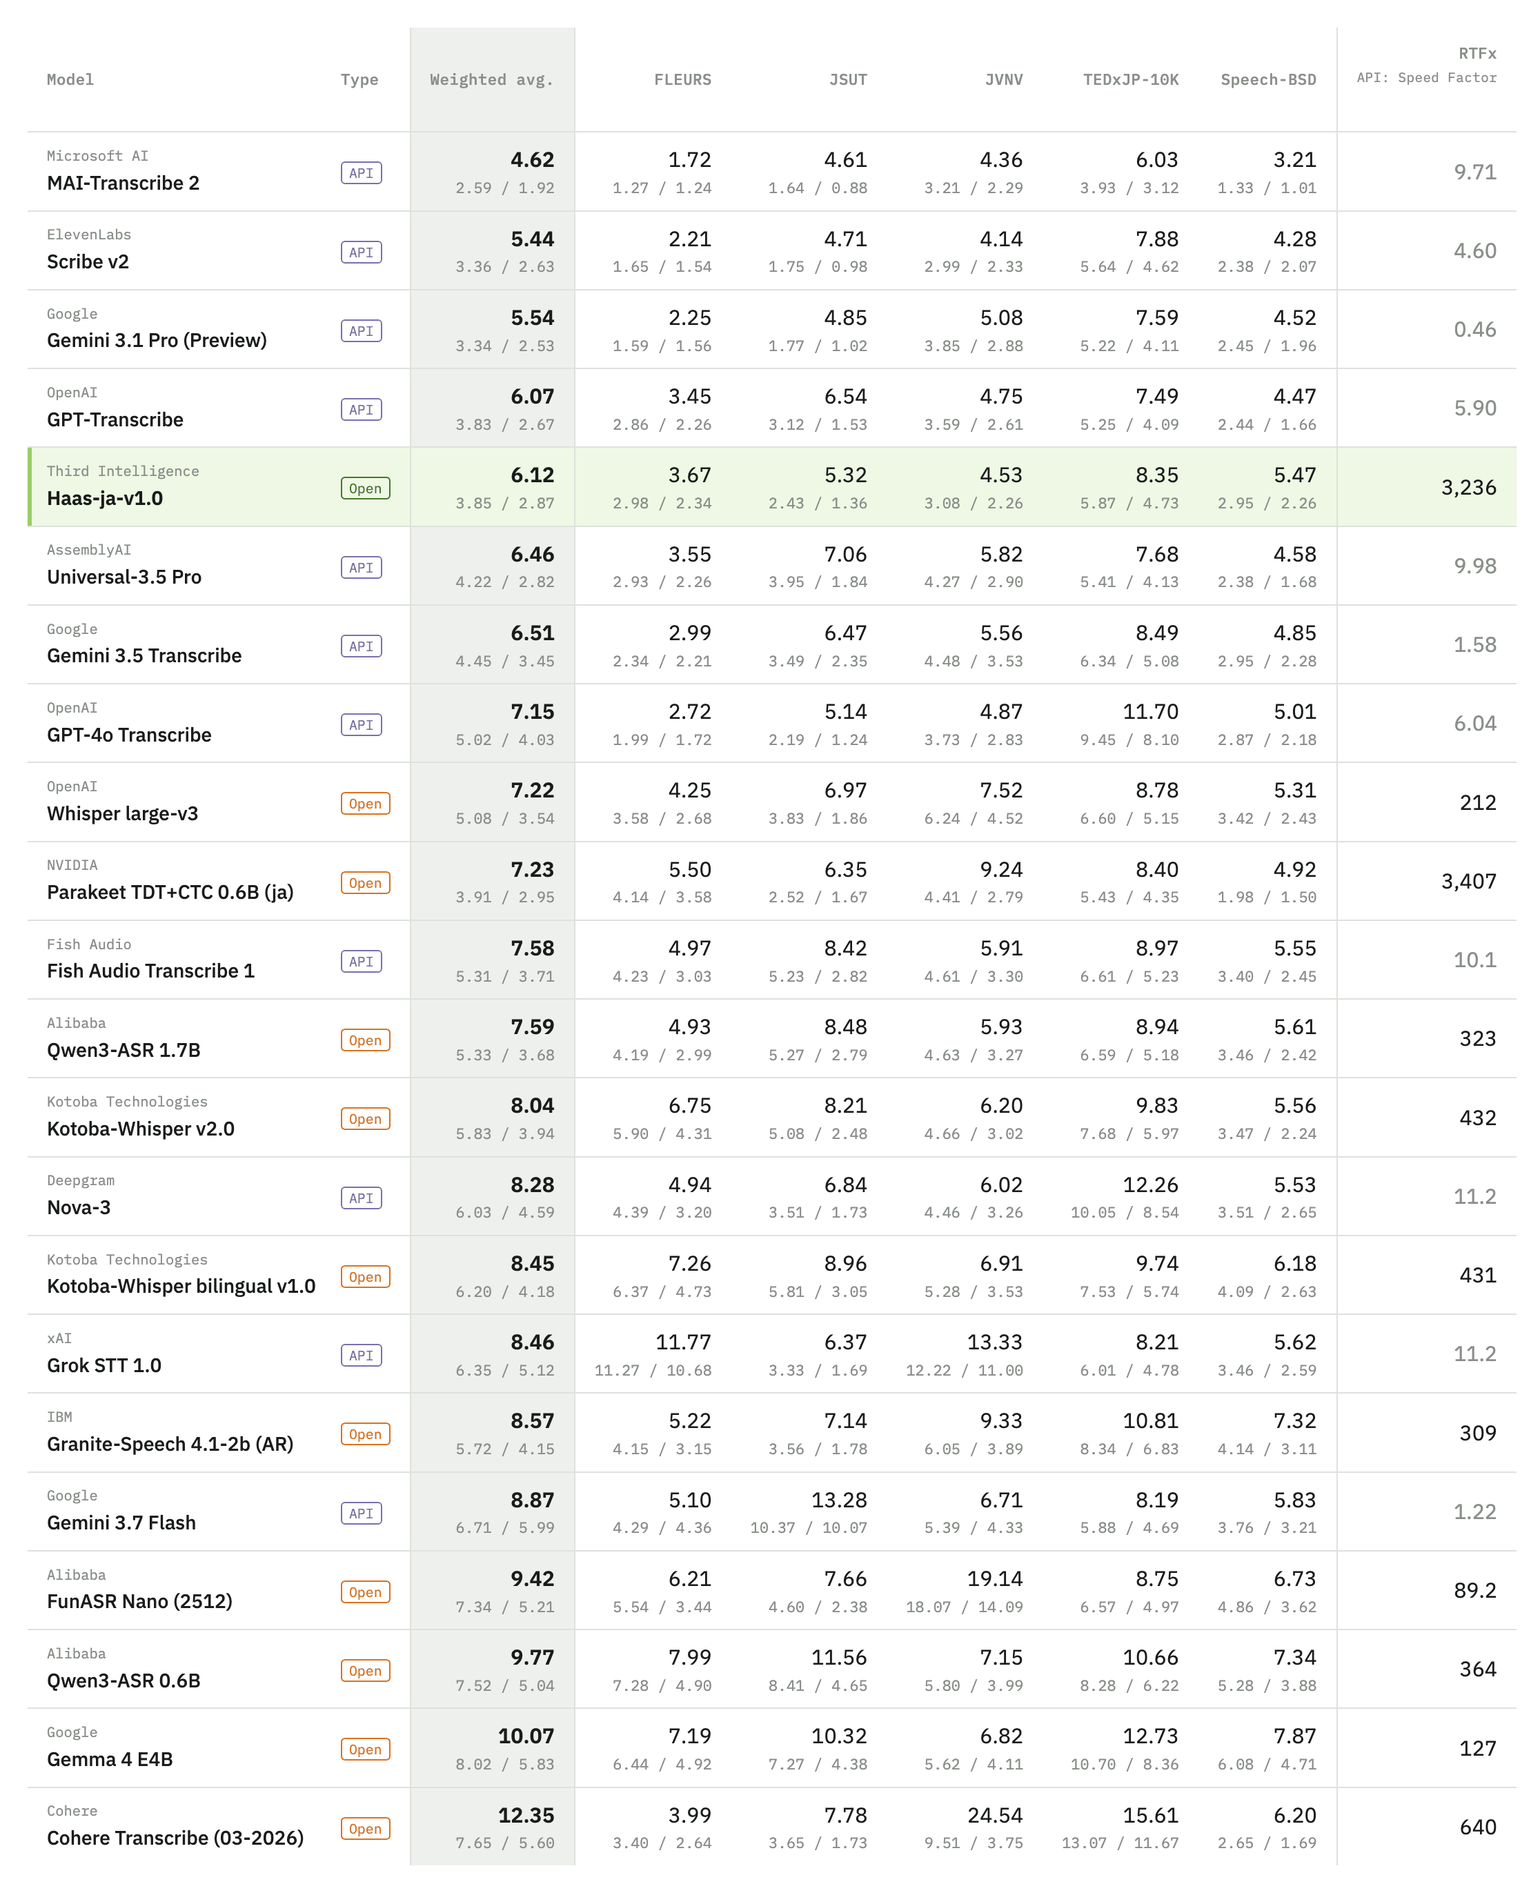
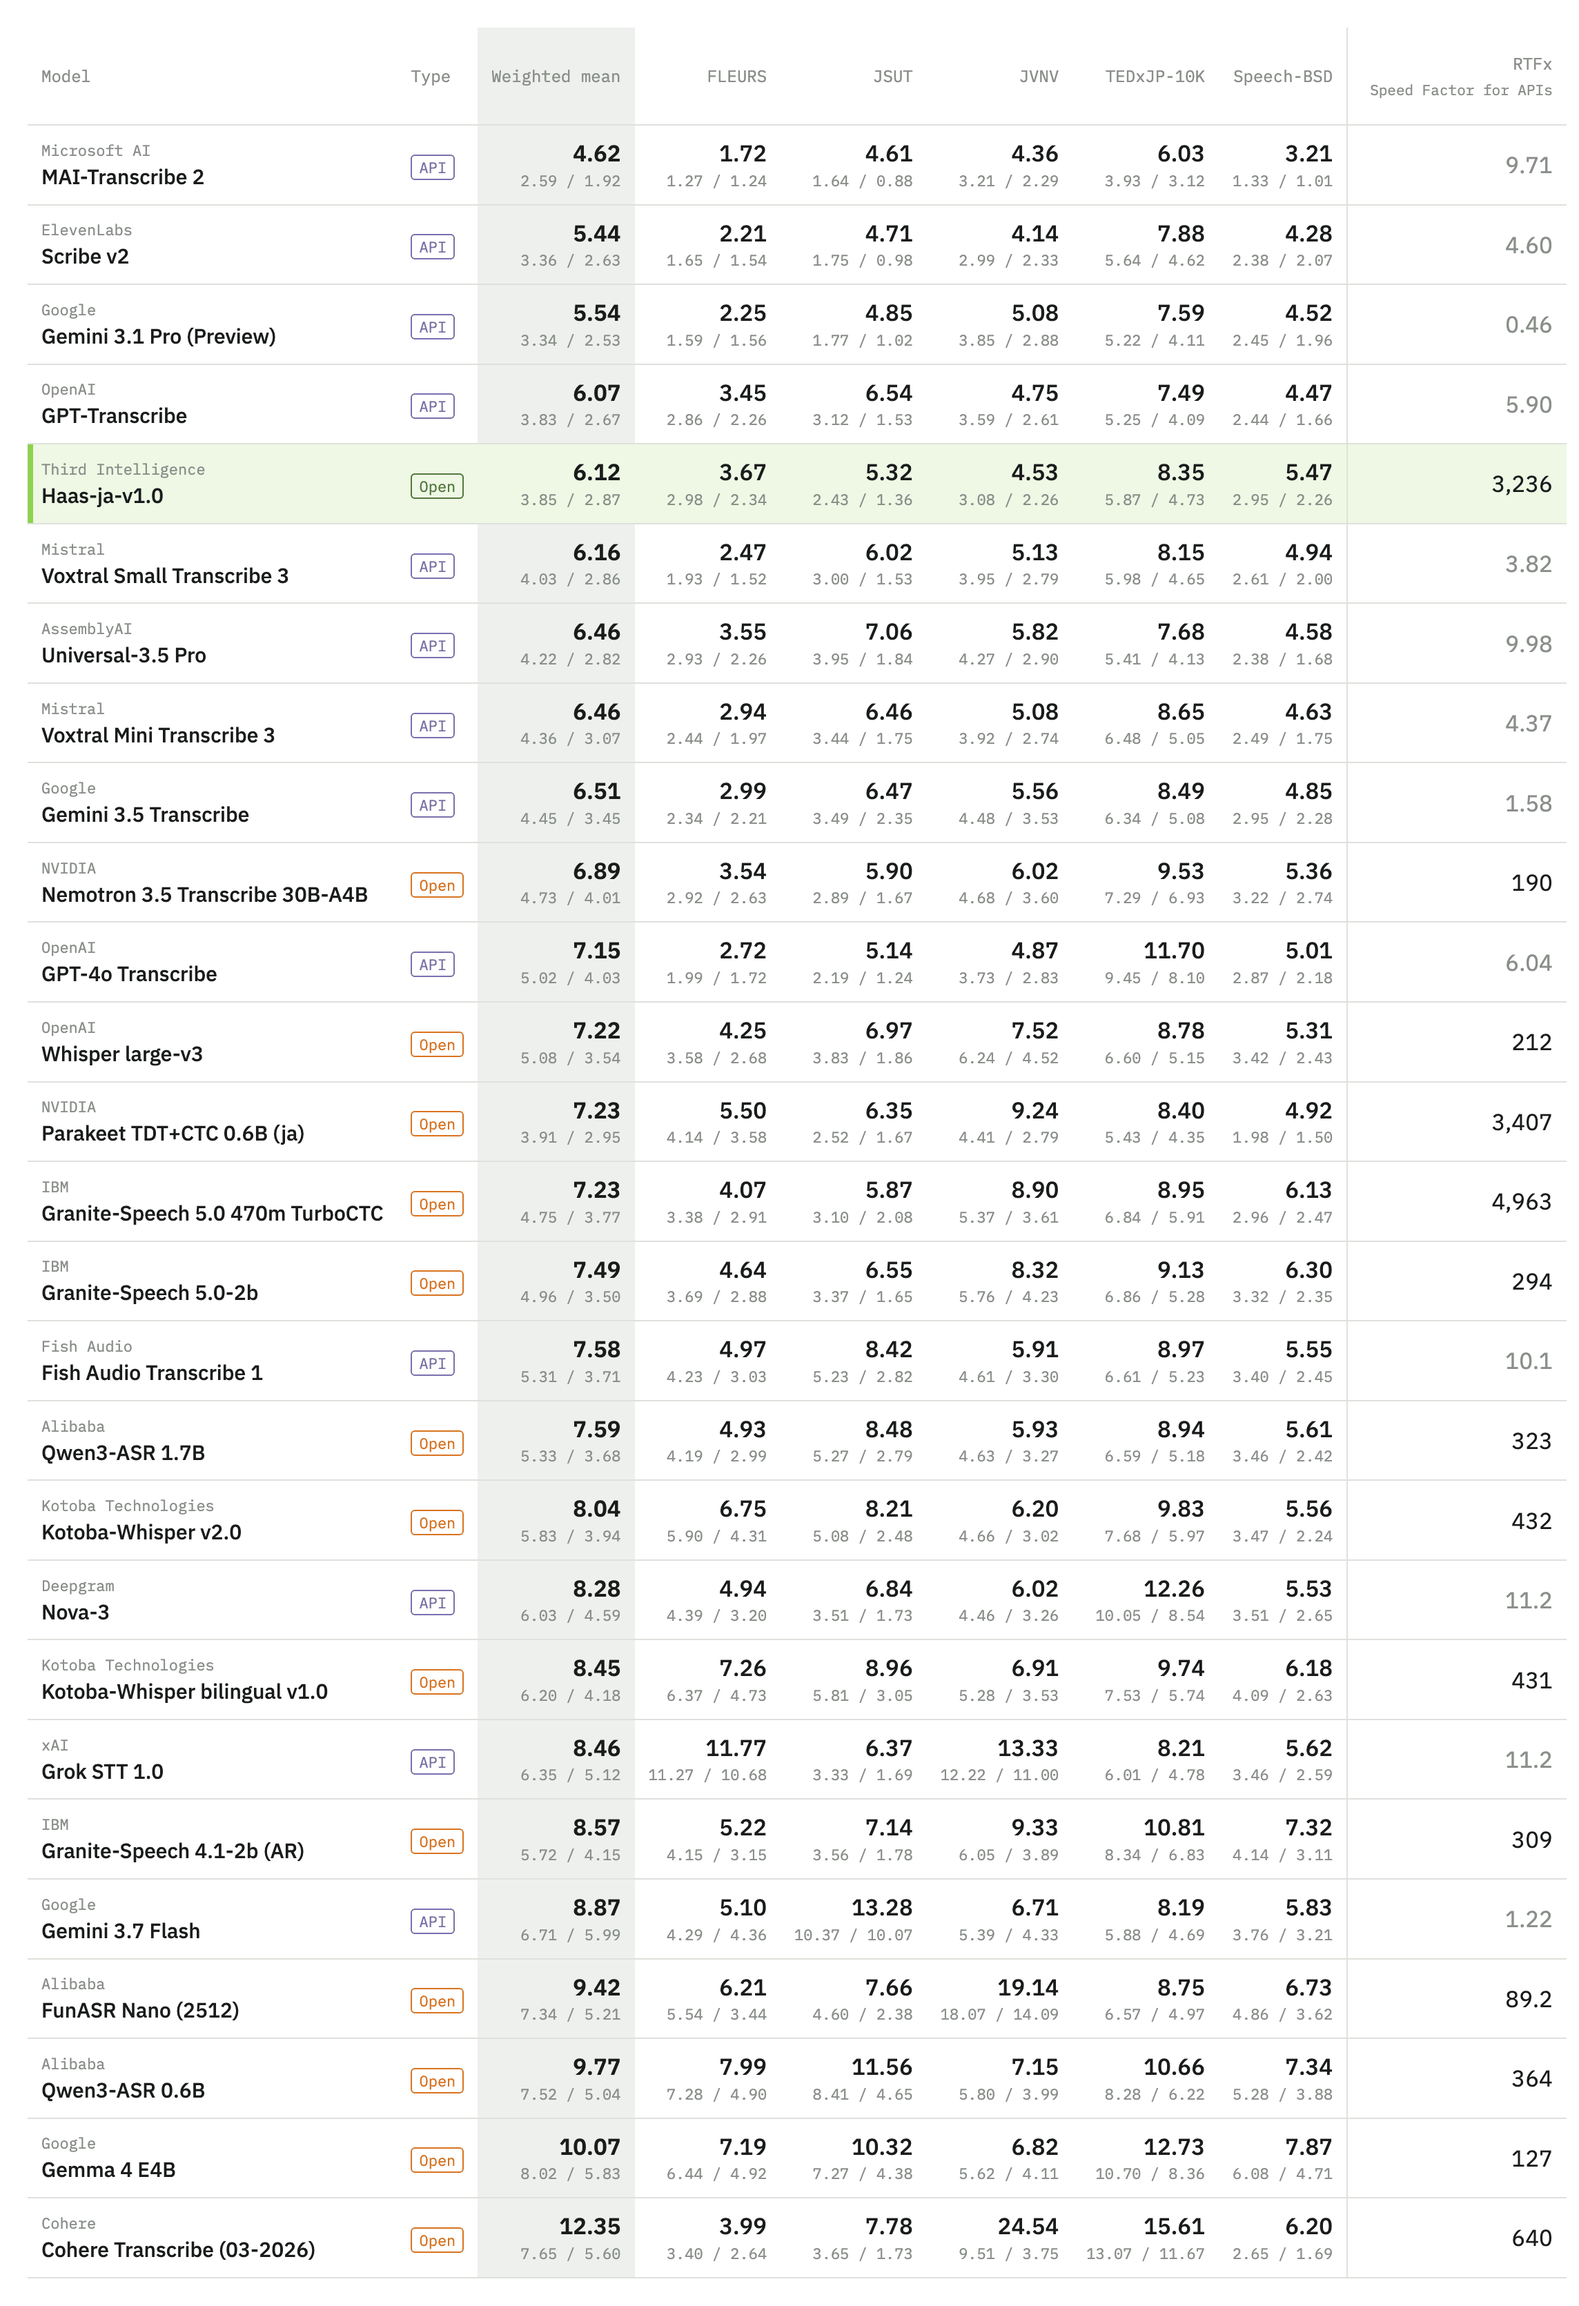
Update the benchmark results with the newly added models

diff --git a/README.md b/README.md
@@ -25,8 +25,8 @@ In each cell, the top value is CER strict and the bottom values are CER flex / k
 
 Among open models, Haas-ja-v1.0 is on the Pareto frontier of speed and accuracy. It
 runs at almost the same speed as Parakeet (RTFx 3,236 vs. 3,407) while cutting CER
-strict by about 1.1 points, and is about 10–15 times faster than Whisper large-v3 and
-Qwen3-ASR 1.7B, the next most accurate open models.
+strict by about 1.1 points, and is about 15–17 times faster than Nemotron 3.5
+Transcribe and Whisper large-v3, the next most accurate open models.
 
 ![CER strict against RTFx / Speed Factor for all models](assets/cer_vs_rtfx.png)
 
